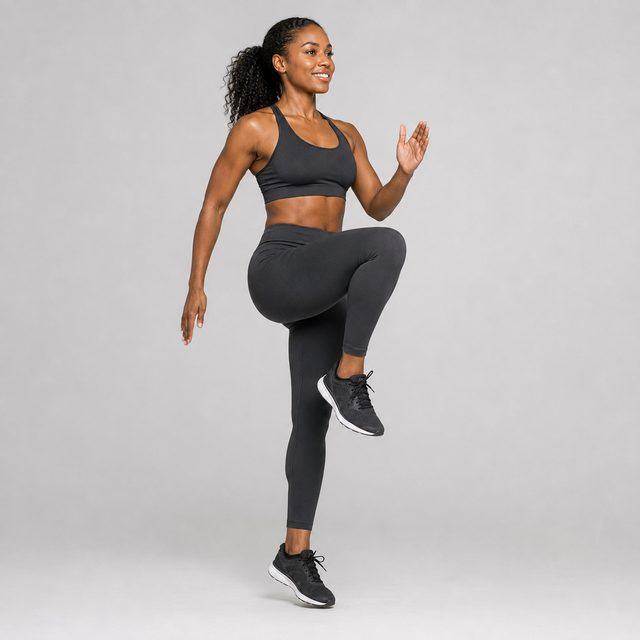
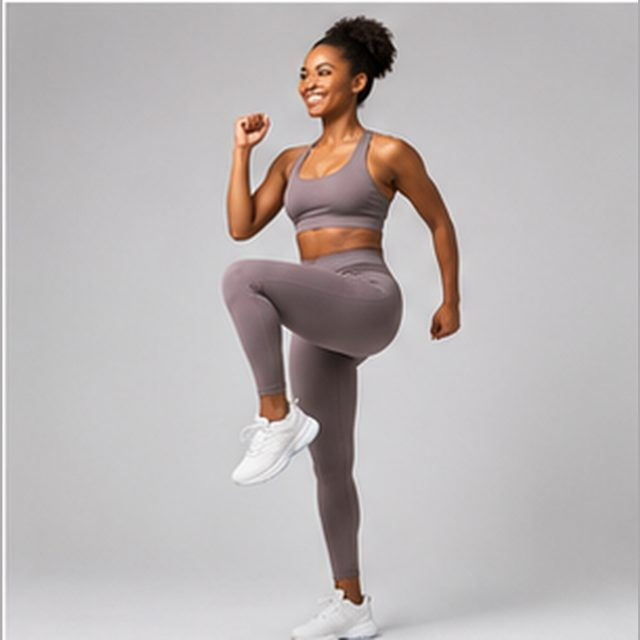
Swap wu-march image for the mauve-outfit version (matches the set)
Replaces the black-outfit March in Place photo with the mauve-outfit render so
the whole warm-up/cool-down set uses the same athlete and outfit.

sw.js: bump cache to coreforge-v43 so devices re-fetch the updated image.
Claude-Session: https://claude.ai/code/session_012pSaigMvmiPH3HEpchsLug

diff --git a/sw.js b/sw.js
@@ -1,5 +1,5 @@
 /* CoreForge — offline service worker */
-const CACHE = 'coreforge-v42';
+const CACHE = 'coreforge-v43';
 const SHELL = ['./', './index.html', './manifest.webmanifest', './icon-192.png', './icon-512.png',
   './ex-kneeplank.jpg','./ex-plank.jpg','./ex-longplank.jpg','./ex-planktap.jpg',
   './ex-tuckhollow.jpg','./ex-hollow.jpg','./ex-hollowrock.jpg',
